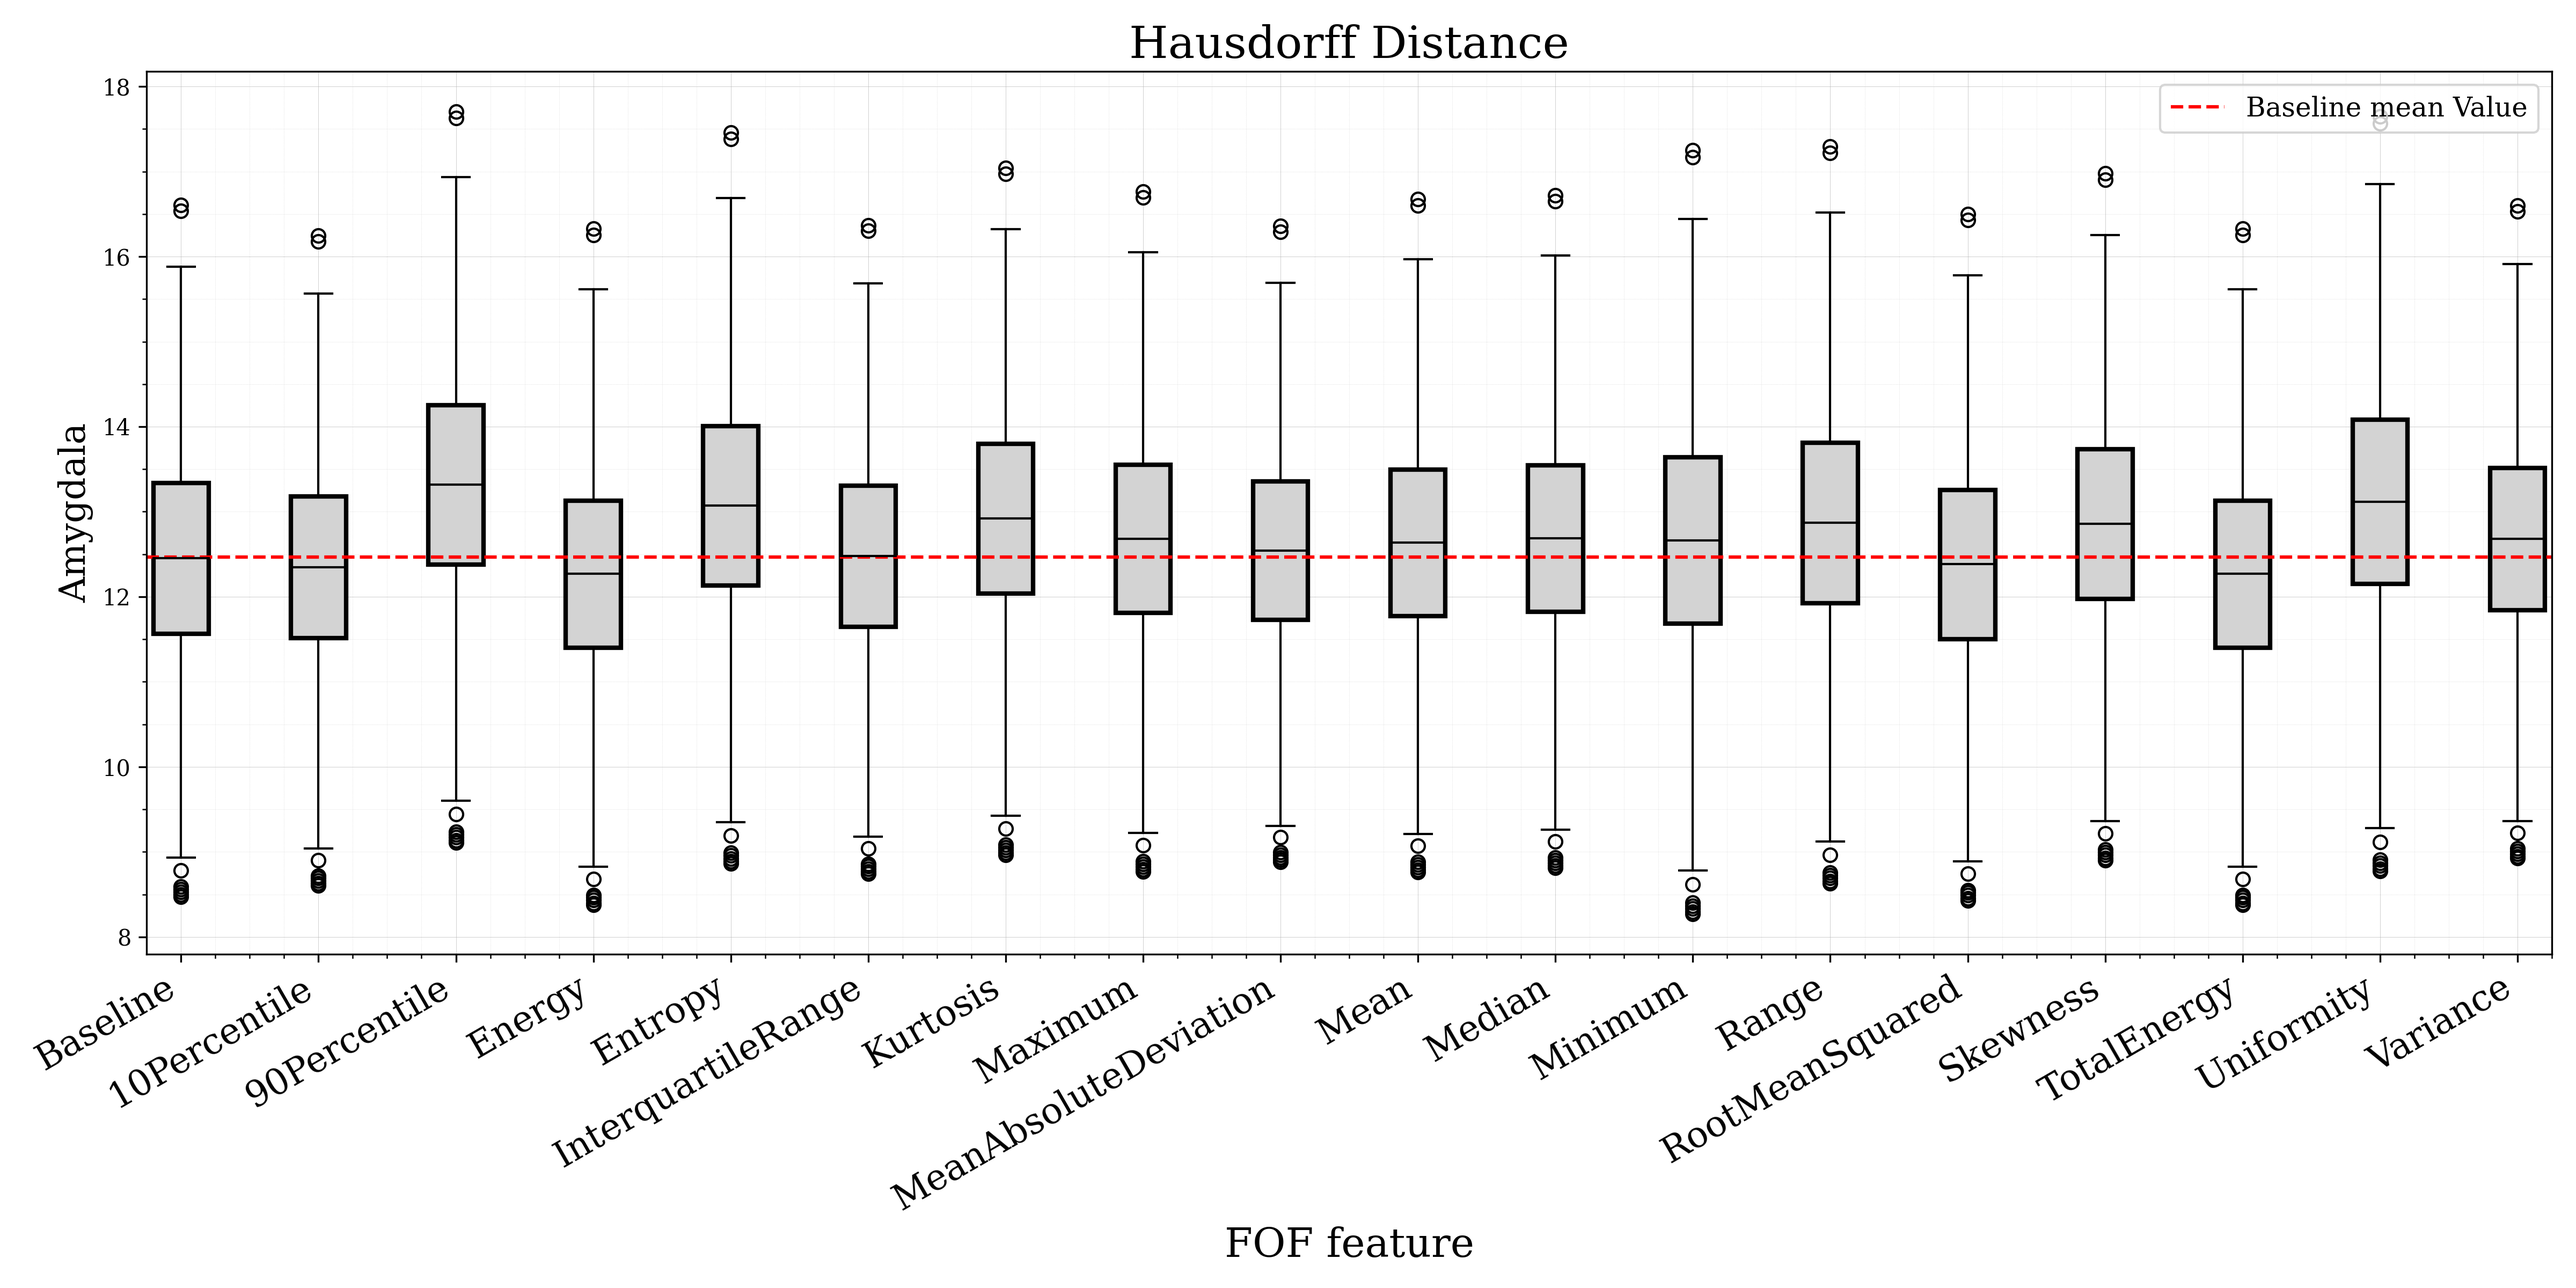
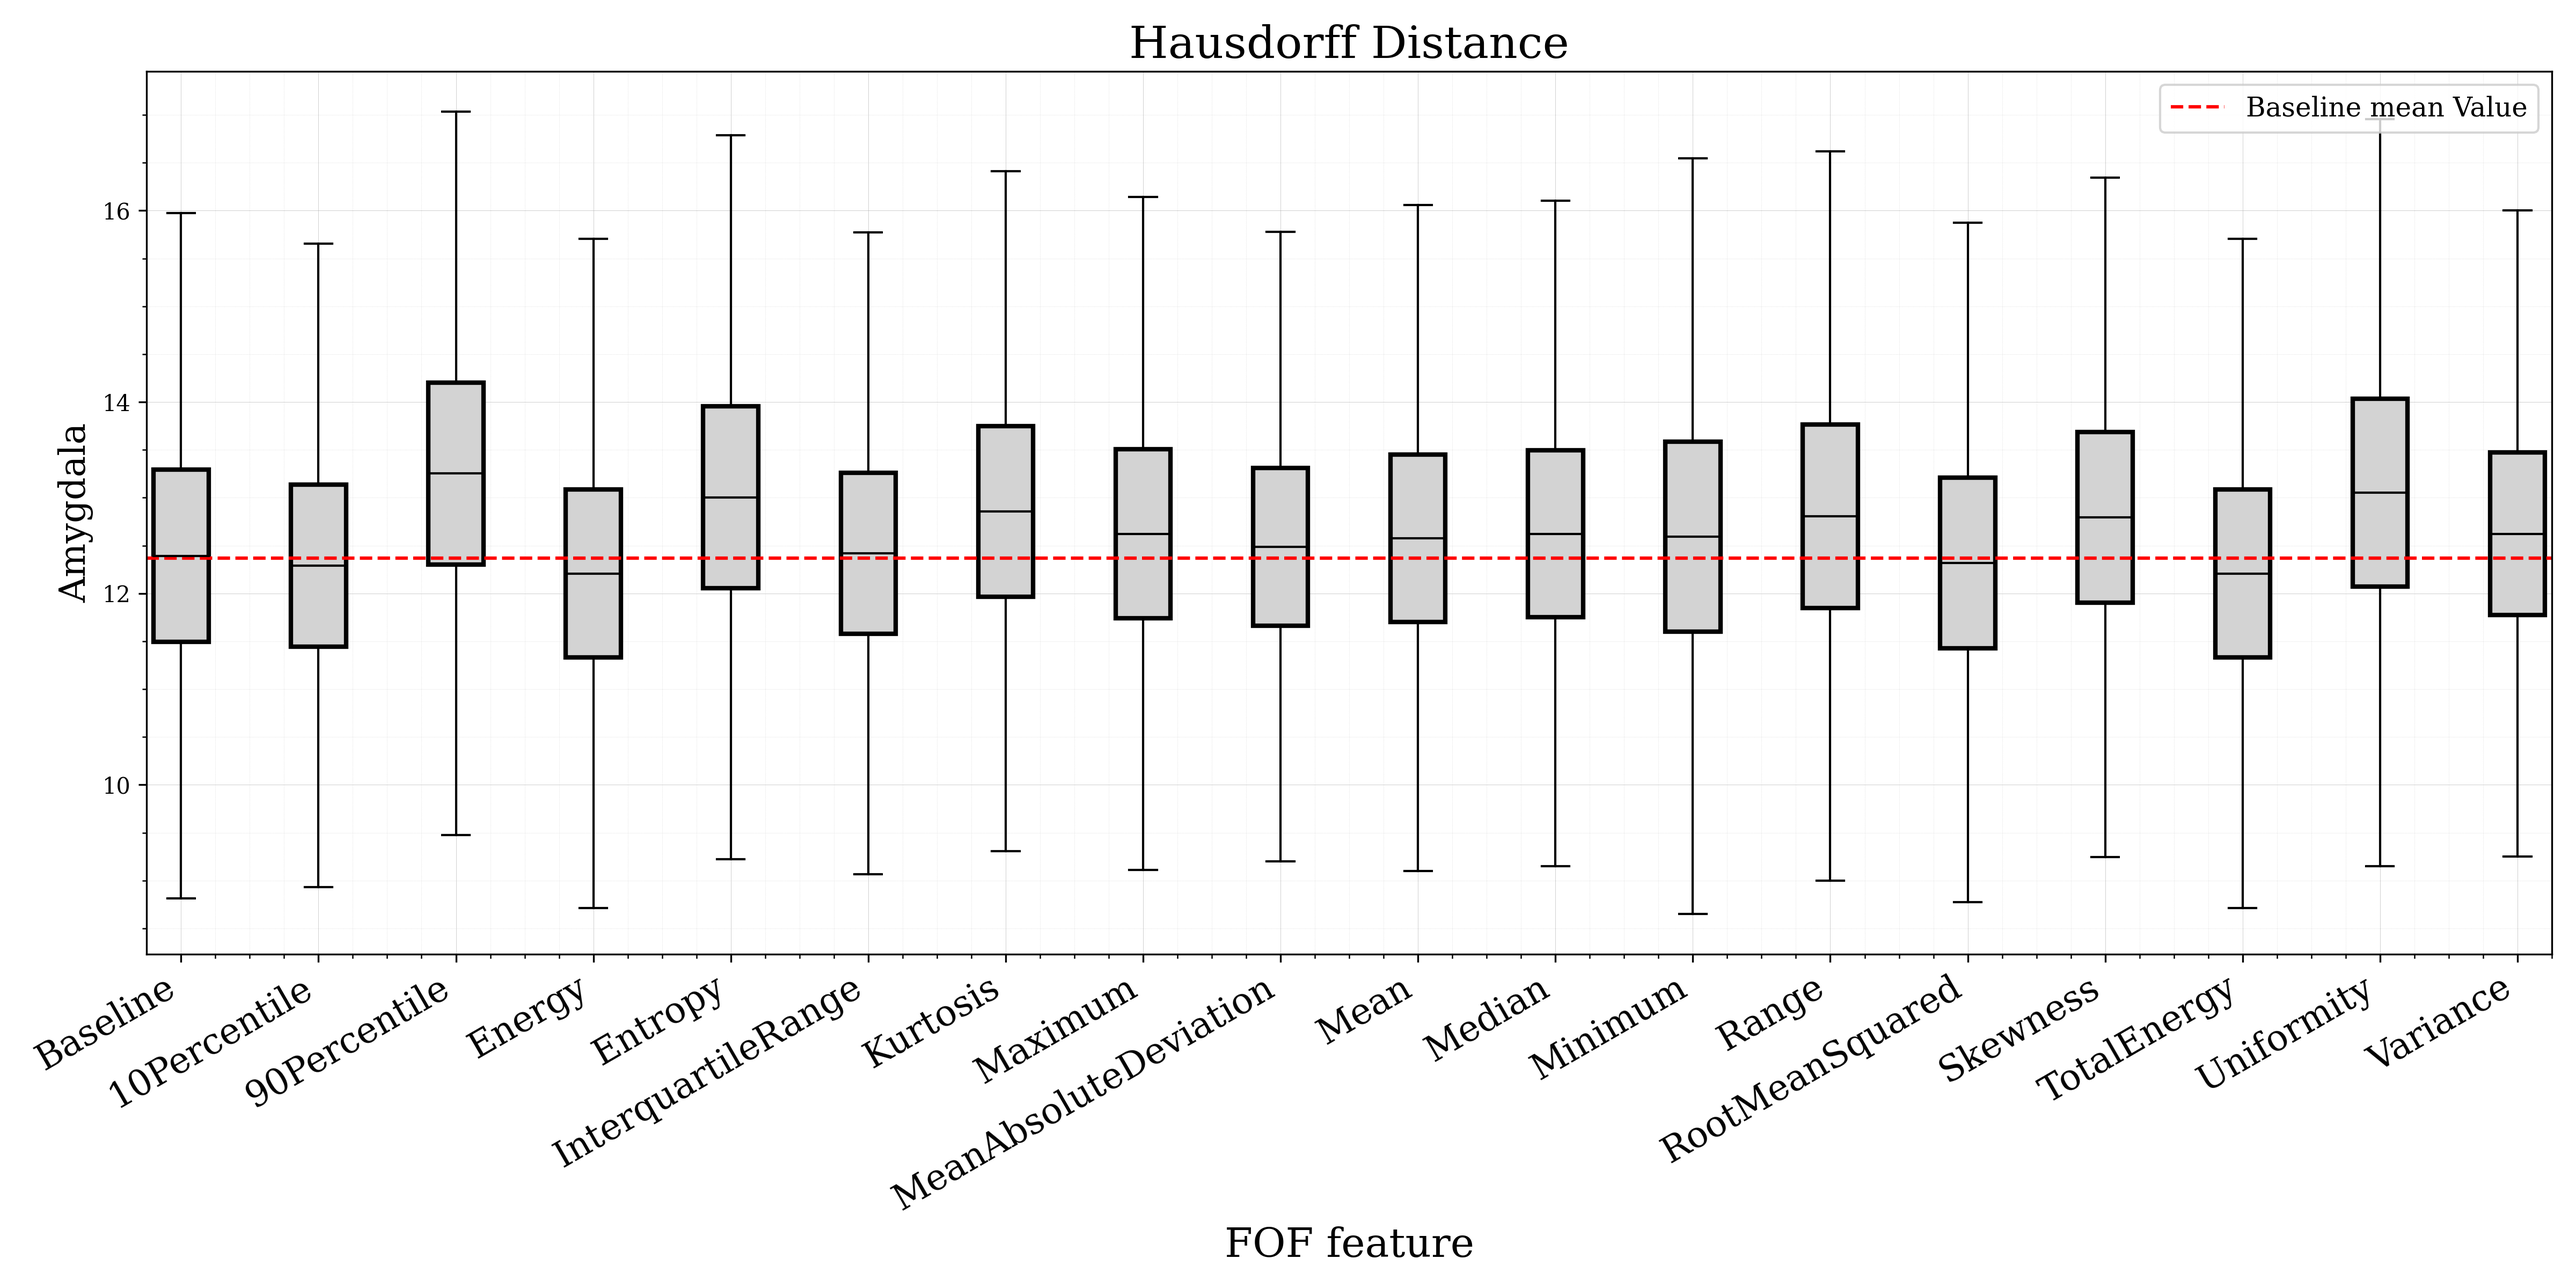
MODIFY:summary table with STD

diff --git a/bin/multiple_boxplots.py b/bin/multiple_boxplots.py
@@ -4,7 +4,7 @@ import matplotlib.pyplot as plt
 import numpy as np
 
 # Define the brain region of interest [Amygdala, Hippocampus, Thalamus, WhiteMatter, GreyMatter]
-brain_region = 'Amygdala'
+brain_region = 'GreyMatter'
 
 # Define the type of feature to be used [GLCM, FOF, GLSZM]
 feature_type = 'GLSZM'
@@ -25,8 +25,9 @@ def get_used_features():
         parameters = ['Baseline', 'GrayLevelNonUniformity', 'GrayLevelNonUniformityNormalized', 'GrayLevelVariance',
                       'HighGrayLevelZoneEmphasis', 'LargeAreaEmphasis', 'LargeAreaHighGrayLevelEmphasis',
                       'LargeAreaLowGrayLevelEmphasis', 'LowGrayLevelZoneEmphasis', 'SizeZoneNonUniformity',
-                      'SizeZoneNonUniformityNormalized','SmallAreaEmphasis', 'SmallAreaHighGrayLevelEmphasis', 'SmallAreaLowGrayLevelEmphasis',
-                      'ZoneEntropy', 'ZonePercentage','ZoneVariance']
+                      'SizeZoneNonUniformityNormalized', 'SmallAreaEmphasis', 'SmallAreaHighGrayLevelEmphasis',
+                      'SmallAreaLowGrayLevelEmphasis',
+                      'ZoneEntropy', 'ZonePercentage', 'ZoneVariance']
     else:
         raise ValueError("Invalid feature type. Choose from: [GLCM, FOF, GLSZM]")
 
@@ -78,20 +79,24 @@ num_of_feature = len(structure_DICE) // 2
 
 data_list_DICE = []
 data_list_HDRFDST = []
+mean_dice_baseline = 0
+mean_hdrfdst_baseline = 0
 
 # Generate random data for DICE and Hausdorff distance based on mean and standard deviation
 for i in range(num_of_feature):
     mean_DICE, std_DICE = structure_DICE.iloc[i * 2: (i + 1) * 2, 3:4].values.astype(float)
     mean_HDRFDST, std_HDRFDST = structure_HDRFDST.iloc[i * 2: (i + 1) * 2, 3:4].values.astype(float)
 
+    if i == 0:
+        mean_dice_baseline = mean_DICE
+        mean_hdrfdst_baseline = mean_HDRFDST
+
     np.random.seed(42)
-    data_DICE = np.random.normal(loc=mean_DICE, scale=std_DICE, size=1000)
+    data_DICE = np.random.normal(loc=mean_DICE, scale=std_DICE, size=10000)
     data_list_DICE.append(data_DICE)
 
-    data_HDRFDST = np.random.normal(loc=mean_HDRFDST, scale=std_HDRFDST, size=1000)
+    data_HDRFDST = np.random.normal(loc=mean_HDRFDST, scale=std_HDRFDST, size=10000)
     data_list_HDRFDST.append(data_HDRFDST)
-
-
 
 # Define folder name
 folder_name = f'Boxplots_{feature_type}'
@@ -99,7 +104,6 @@ folder_name = f'Boxplots_{feature_type}'
 # Create the folder if it doesn't exist
 if not os.path.exists(folder_name):
     os.makedirs(folder_name)
-
 
 # Set font family for plots
 plt.rcParams['font.family'] = 'DejaVu Serif'
@@ -110,7 +114,7 @@ positions = np.arange(1, num_of_feature * 2 + 1, 2)
 labels = get_used_features()
 
 # Customize boxplot appearance
-plt.boxplot(data_list_DICE, positions=positions, labels=labels, widths=0.8, patch_artist=True,
+plt.boxplot(data_list_DICE, positions=positions, labels=labels, showfliers=False, widths=0.8, patch_artist=True,
             medianprops={'color': 'black'}, boxprops={'edgecolor': 'black', 'linewidth': 2, 'facecolor': 'lightgray'})
 
 plt.title('DICE Score', fontsize=20)
@@ -119,8 +123,7 @@ plt.ylabel(brain_region, fontsize=18)
 plt.xticks(rotation=30, ha='right', fontsize=16)
 
 # Add a line on the y-axis for the mean value of the first boxplot
-mean_value = np.mean(data_list_DICE[0])  # Assuming the first boxplot is at index 0
-plt.axhline(y=mean_value, color='red', linestyle='--', linewidth=1.5, label='Baseline mean Value')
+plt.axhline(y=mean_dice_baseline, color='red', linestyle='--', linewidth=1.5, label='Baseline mean Value')
 
 # Show legend
 plt.legend(fontsize='large', loc='upper right')
@@ -134,14 +137,13 @@ plt.grid(True, which='minor', linestyle=':', linewidth=0.2, alpha=0.5)  # Minor 
 # Save the figure
 plt.savefig(os.path.join(folder_name, f'Boxplot_{feature_type}_{brain_region}_DICE.png'), dpi=300)
 
-
 # Plot boxplot for Hausdorff distance
 plt.figure(figsize=(16, 8))
 positions = np.arange(1, num_of_feature * 2 + 1, 2)
 labels = get_used_features()
 
 # Customize boxplot appearance
-plt.boxplot(data_list_HDRFDST, positions=positions, labels=labels, widths=0.8, patch_artist=True,
+plt.boxplot(data_list_HDRFDST, positions=positions, showfliers=False, labels=labels, widths=0.8, patch_artist=True,
             medianprops={'color': 'black'}, boxprops={'edgecolor': 'black', 'linewidth': 2, 'facecolor': 'lightgray'})
 
 plt.title('Hausdorff Distance', fontsize=20)
@@ -151,8 +153,7 @@ plt.ylabel(brain_region, fontsize=16)
 plt.xticks(rotation=30, ha='right', fontsize=16)
 
 # Add a line on the y-axis for the mean value of the first boxplot
-mean_value = np.mean(data_list_HDRFDST[0])  # Assuming the first boxplot is at index 0
-plt.axhline(y=mean_value, color='red', linestyle='--', linewidth=1.5, label='Baseline mean Value')
+plt.axhline(y=mean_hdrfdst_baseline, color='red', linestyle='--', linewidth=1.5, label='Baseline mean Value')
 
 # Show legend
 plt.legend(fontsize='large', loc='upper right')

diff --git a/bin/provs.py b/bin/provs.py
@@ -1,0 +1,16 @@
+import numpy as np
+import matplotlib.pyplot as plt
+
+# Set mean and std for the distribution
+desired_mean = 10
+std = 2
+
+# Generate synthetic data based on normal distribution
+data = np.random.normal(0, std, 100)  # Generate data with mean=0
+data_shifted = data + (desired_mean - np.mean(data))  # Shift the data to match the desired mean
+
+# Create a boxplot using Matplotlib
+plt.boxplot(data_shifted, vert=False)
+plt.title('Boxplot with Mean and Std')
+plt.xlabel('Values')
+plt.show()
